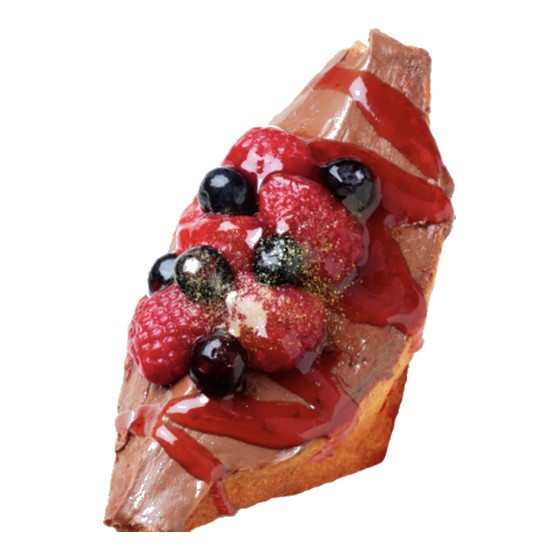
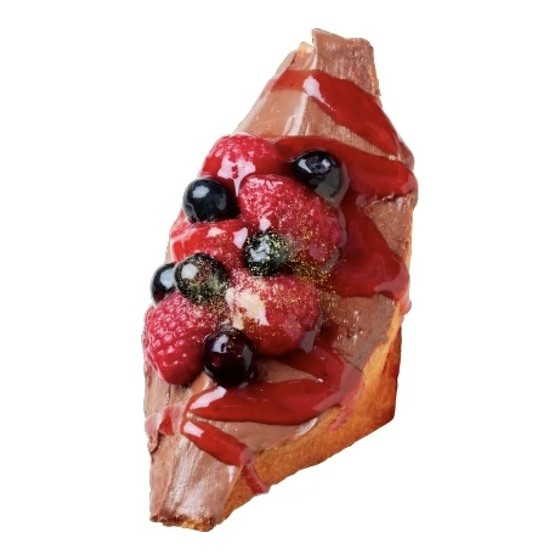
fix: ミックスベリーオペラのヒーロー画像を差し替え
Claude-Session: https://claude.ai/code/session_01Wp3vB6FRfwS6WS9ETNgW7z

diff --git a/age3-recipe-data.js b/age3-recipe-data.js
@@ -30,7 +30,7 @@
    ========================================================================== */
 
 var RECIPE_META = {
-  assetVersion: '20261008a',
+  assetVersion: '20261010a',
   brand: 'Age.3',
   title: 'Age.3 レシピ',
   sub: '揚げサンド スタンダードレシピ',
